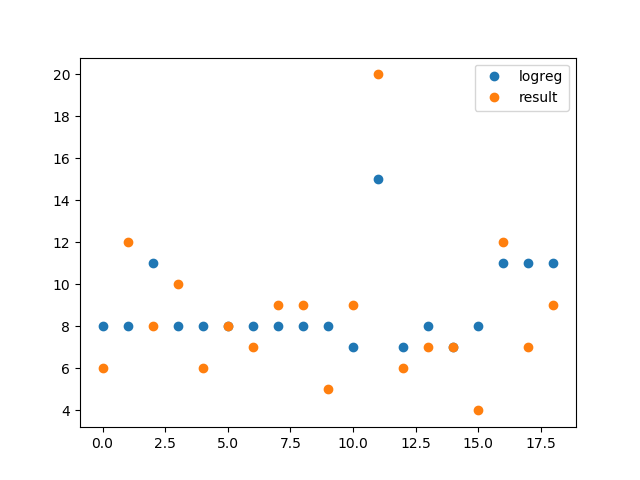
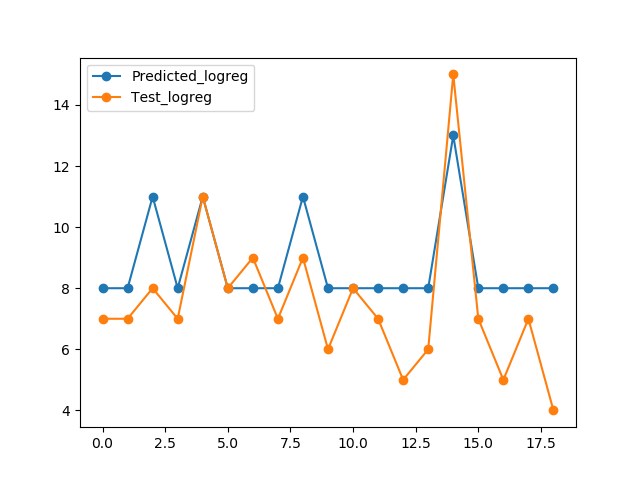
kkkk talkei

diff --git a/wine reviews machine learning/knn_and_logreg_everything_scaling.py b/wine reviews machine learning/knn_and_logreg_everything_scaling.py
@@ -105,18 +105,18 @@ print("F1:",knn_scores_f1.mean())
 
 logreg = LogisticRegression()
 
-#logreg.fit(X_train, y_train)
+logreg.fit(X_train, y_train)
 
-#logreg_predict = logreg.predict(X_test)
+logreg_predict = logreg.predict(X_test)
+plt.plot(y_pred, marker = 'o', ls = '-')
+plt.plot(y_test, marker = 'o', ls = '-')
+plt.legend((p1[0],p2[0]),('Predicted_LogReg', 'Test_LogReg'))
+plt.show()
 
 logreg_scores = cross_val_score(logreg, train, target, cv = 10, scoring='accuracy')
 logreg_scores_precision = cross_val_score(logreg,  train, target, cv = 10, scoring ='precision_micro')
 logreg_scores_f1 = cross_val_score(logreg,  train, target, cv = 10, scoring ='f1_micro')
 
-plt.plot(knn_scores, marker = '', ls = '-')
-plt.plot(logreg_scores, marker = '', ls = '-')
-plt.legend((p1[0],p2[0]),('KNN_scores', 'logreg_scores'))
-plt.show()
 
 print(knn_scores)
 print(logreg_scores)

diff --git a/wine reviews machine learning/baggin.py b/wine reviews machine learning/baggin.py
@@ -23,12 +23,12 @@ for x in range(len(target)):
 X_train, X_test, y_train, y_test = train_test_split(train, target, test_size=0.2)
 
 baggin = BaggingClassifier(KNeighborsClassifier(), n_estimators = 53, max_samples = 0.5, max_features = 0.5)
-#voter = VotingClassifier(baggin)
+voter = VotingClassifier(baggin)
 
 baggin.fit(X_train, y_train)
+y_pred = baggin.predict(X_test)
+p1 = plt.plot(y_pred, marker = 'o', ls = '-')
+p2 = plt.plot(y_test, marker = 'o', ls = '-')
 
-p1 = plt.plot(baggin.predict(X_test), marker = 'o', ls = '')
-p2 = plt.plot(y_test, marker = 'o', ls = '')
-
-plt.legend((p1[0],p2[0]),('bagging', 'result'))
+plt.legend((p1[0],p2[0]),('Predicted_Bagging', 'Test_Bagging'))
 plt.show()
